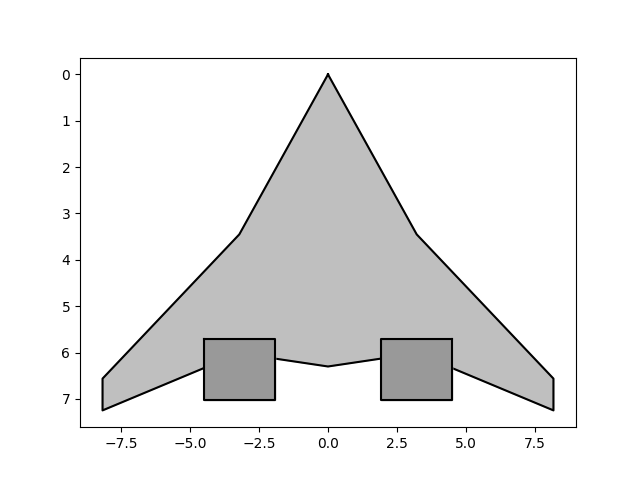
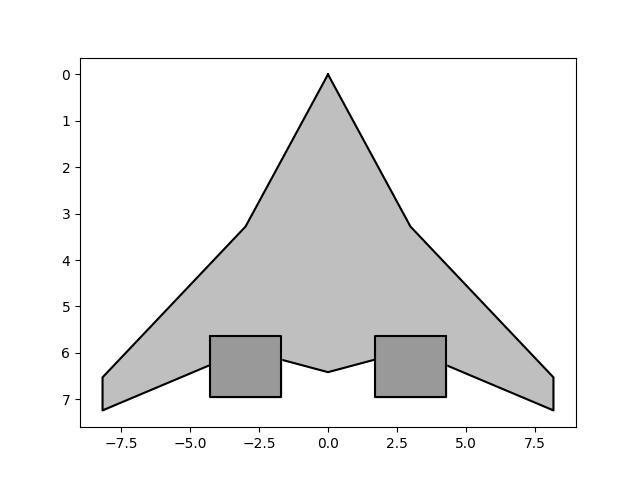
Almost done ?

diff --git a/Aerodynamics/Main.py b/Aerodynamics/Main.py
@@ -52,9 +52,9 @@ tail.tail_sizing_2()
 
 # Generate x values
 x = np.linspace(-10, 20)
-y = tail.funct_f_b_wt(x)
-plt.plot(x, y)
-plt.show()
+# y = tail.funct_f_b_wt(x)
+# plt.plot(x, y)
+# plt.show()
 
 # Generate y values by applying the function to each x value
 # Create the plot
@@ -63,7 +63,7 @@ LG=LandingGear(x_cg,plane.b_tot,plane.sweep[0],MTOW,plane.c[1],plane.c[0],plane.
 pushers=True
 
 for i in range(10):
-    Batterysize=Planform_calculation(".\Airfoil_dat\MH 91  14.98%.dat",".\Airfoil_dat\MH 91  14.98%.dat",MTOW,Wingloading,V_prop,V_pl,0.25,LG.track_width_MLG/(plane.b_tot),sweep_inner=np.deg2rad(38),sweep_outer=np.deg2rad(28))
+    Batterysize=Planform_calculation(".\Airfoil_dat\MH 91  14.98%.dat",".\Airfoil_dat\MH 91  14.98%.dat",MTOW,Wingloading,V_prop,V_pl,0.25,LG.track_width_MLG/(plane.b_tot),sweep_inner=np.deg2rad(30),sweep_outer=np.deg2rad(28))
     plane=Batterysize.makeplane()
     x_cg_batt=Batterysize.battery_placement()
     plane.x_rect_batt=Batterysize.x_rect_batt
@@ -86,7 +86,7 @@ for i in range(10):
 
     x_cg=plane.calculate_COG(x_cg_pylon,LG.pos_x_MLG,tail.x_tail,m_eng,x_cg_eng,m_batt,x_cg_batt,m_pl,x_cg_payload,m_system,x_cg_system,MTOW)
 
-#tail.tail_dimensions(7)
+tail.tail_dimensions(7)
 
 
 # print('Bruhhhhh',tail.S_v_b1,tail.x_offset_engine,tail.S_v_wt1)
@@ -94,7 +94,7 @@ for i in range(10):
 LG=LandingGear(x_cg,plane.b_tot,plane.sweep[0],MTOW,plane.c[1],plane.c[0],plane.MAC,pusher=pushers)
 
 
-plane.plot_plane(True)
+# plane.plot_plane(True)
 
 plane.calculate_MOI(0,0,0)
 
@@ -139,6 +139,8 @@ print(Stability.Routh_discriminant())
 
 
 if record:
+    print(Cs.eta_i)
+    print(LG.track_width_MLG,LG.height_MLG,LG.pos_x_MLG,LG.pos_x_NLG)
     plane.record_planform()
     Stability.record_stability()
     tail.record_tail()

diff --git a/Aerodynamics/Plane.py b/Aerodynamics/Plane.py
@@ -98,7 +98,7 @@ class Plane:
             file.write(text)
     
     def record_planform(self):
-        text='S: '+str(self.S)+'\nb: '+str(self.b)+'\nc: '+str(self.c)+'\ntaper: '+str(self.taper)+'\nsweep: '+str(self.sweep)+'\nA: '+str(self.A)+'\nMAC: '+str(self.MAC)+'\nCoordinates x: '+str(self.coords)+'\nCoordinates y: '+str(self.bfull)+'\n\n'
+        text='S: '+str(self.S)+'\nb: '+str(self.b)+'\nc: '+str(self.c)+'\ntaper: '+str(self.taper)+'\nsweep: '+str(self.sweep)+'\nA: '+str(self.A)+'\nMAC: '+str(self.MAC)+'\nCoordinates x: '+str(self.coords)+'\nCoordinates y: '+str(self.bfull)+'\ncg:'+str(self.x_cg)+'\n\n'
         print(text)
         self.add_text_to_file('./Record/Planform record.txt', text)
 
@@ -462,7 +462,7 @@ class Plane:
     #    # self.asd
     #    x=0
 class Tail:
-    def __init__(self, plane, eta, SrS, T_engine, l_engine, d_engine, x_cg, taper_v=0.4, A_v=2.5,
+    def __init__(self, plane, eta, SrS, T_engine, l_engine, d_engine, x_cg, taper_v=0.4, A_v=2,
                  thickness_v=0.12, def_rudder_emergency = 15, beta_max=30, Cl_alpha=2*np.pi,
                  sweep_half_v=0, V_stall = 50, density = 1.225, iteration = 1):
         self.A_v=A_v
